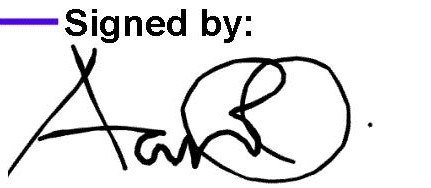
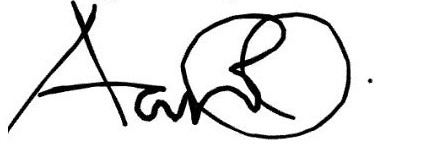
Improve invoice signature and appointment reminders

Changed region(s): [[0.0, 0.0, 0.8144, 1.0], [0.8445, 0.6389, 0.8747, 0.6944], [0.8445, 0.5278, 0.8747, 0.5833]]

diff --git a/server/index.ts b/server/index.ts
@@ -443,6 +443,8 @@ function queuePushNotification(
   });
 }
 
+const TWO_HOURS_MS = 2 * 60 * 60 * 1000;
+
 let bookingReminderSweepRunning = false;
 
 async function sendDueBookingReminders() {
@@ -464,10 +466,10 @@ async function sendDueBookingReminders() {
 
     for (const booking of reminderCandidates) {
       const displayId = formatBookingDisplayId(booking);
-      const reminderText = booking.reminderNote?.trim() || "Follow up with this customer request.";
+      const appointmentReminder = isTwoHourAppointmentReminder(booking);
       queuePushNotification({
-        title: `Reminder: ${booking.name}`,
-        message: `${displayId} - ${reminderText}`,
+        title: appointmentReminder ? `Job in 2 hours: ${booking.name}` : `Reminder: ${booking.name}`,
+        message: buildAdminReminderMessage(booking, displayId),
         url: "/admin",
         icon: "/icons/admin-icon-v2-192x192.png",
         badge: "/icons/admin-icon-v2-96x96.png",
@@ -592,6 +594,54 @@ function isReminderActive(booking: Pick<Booking, "reminderAt" | "status">) {
 function isReminderDue(booking: Pick<Booking, "reminderAt" | "status">, now = Date.now()) {
   const reminderTime = getBookingReminderTime(booking);
   return isReminderActive(booking) && Number.isFinite(reminderTime) && reminderTime <= now;
+}
+
+function getDateTimeMs(value?: string | null) {
+  const text = value?.trim();
+  if (!text) {
+    return Number.NaN;
+  }
+
+  const parsedTime = Date.parse(text);
+  return Number.isFinite(parsedTime) ? parsedTime : Number.NaN;
+}
+
+function getTwoHourAppointmentReminderAt(appointmentTime?: string | null) {
+  const appointmentMs = getDateTimeMs(appointmentTime);
+  if (!Number.isFinite(appointmentMs)) {
+    return "";
+  }
+
+  return new Date(Math.max(Date.now(), appointmentMs - TWO_HOURS_MS)).toISOString();
+}
+
+function isTwoHourAppointmentReminder(booking: Pick<Booking, "appointmentTime" | "reminderAt">) {
+  const appointmentMs = getDateTimeMs(booking.appointmentTime);
+  const reminderMs = getBookingReminderTime(booking);
+
+  return (
+    Number.isFinite(appointmentMs) &&
+    Number.isFinite(reminderMs) &&
+    Math.abs(reminderMs - (appointmentMs - TWO_HOURS_MS)) <= 90_000
+  );
+}
+
+function buildDefaultAppointmentReminderNote(booking: Pick<Booking, "repairType">) {
+  return `About 2 hours left to go and do the ${booking.repairType || "job"}. Check the customer details, route, tools, and parts before leaving.`;
+}
+
+function buildAdminReminderMessage(booking: Pick<Booking, "appointmentTime" | "reminderAt" | "reminderNote" | "repairType">, displayId: string) {
+  const reminderText = booking.reminderNote?.trim() || (
+    isTwoHourAppointmentReminder(booking)
+      ? buildDefaultAppointmentReminderNote(booking)
+      : "Follow up with this customer request."
+  );
+
+  if (isTwoHourAppointmentReminder(booking)) {
+    return `${displayId} - ${reminderText}${booking.appointmentTime ? ` Appointment: ${booking.appointmentTime}.` : ""}`;
+  }
+
+  return `${displayId} - ${reminderText}`;
 }
 
 function matchesWorkflowFilter(booking: Booking, workflow: string) {
@@ -1272,6 +1322,7 @@ function renderSitemapXml() {
 function renderQuoteInvoiceHtml(booking: Booking, nonce: string) {
   const lineItems = (booking.quoteNotes || "Labour, materials, sourcing, delivery, or installation details will be confirmed by FixMyDoor Services.").split(/\r?\n/).filter(Boolean);
   const bookingDisplayId = formatBookingDisplayId(booking);
+  const issuedDate = new Date().toLocaleDateString();
 
   return `<!doctype html>
 <html lang="en">
@@ -1293,13 +1344,19 @@ function renderQuoteInvoiceHtml(booking: Booking, nonce: string) {
     .total { margin: 20px 0; padding: 20px; border-radius: 18px; background: #2f241c; color: white; display: flex; justify-content: space-between; gap: 16px; align-items: center; }
     .total strong { font-size: 28px; }
     ul { margin: 12px 0 0; padding-left: 20px; line-height: 1.7; }
-    .signature-card { margin-top: 14px; display: flex; justify-content: space-between; gap: 20px; align-items: center; background: #fff; border: 1px solid #ead8bf; border-radius: 18px; padding: 16px; }
+    .signature-card { margin-top: 14px; display: flex; justify-content: space-between; gap: 22px; align-items: center; background: linear-gradient(135deg, #fff 0%, #fffaf2 58%, #f5ead8 100%); border: 1px solid #e2c6a6; border-radius: 20px; padding: 18px; box-shadow: inset 0 1px 0 rgba(255,255,255,.9); }
     .signature-card p { margin: 6px 0 0; color: #7b6758; font-size: 13px; line-height: 1.5; }
-    .signature-card img { width: 230px; max-width: 44%; height: auto; object-fit: contain; border-radius: 12px; background: #fff; }
+    .signature-card h3 { color: #2f241c; }
+    .signature-pill { display: inline-flex; align-items: center; border-radius: 999px; background: #2f241c; color: #fff; padding: 6px 10px; font-size: 11px; font-weight: 800; letter-spacing: .12em; text-transform: uppercase; }
+    .signature-mark { min-width: 260px; border-radius: 16px; background: rgba(255,255,255,.84); border: 1px solid #ead8bf; padding: 12px 14px; text-align: center; }
+    .signature-mark img { width: 250px; max-width: 100%; height: auto; object-fit: contain; display: block; margin: 0 auto 6px; }
+    .signature-line { height: 1px; background: #8f6a48; margin: 0 auto 8px; max-width: 230px; }
+    .signature-name { display: block; font-weight: 800; color: #2f241c; }
+    .signature-title { display: block; margin-top: 2px; color: #7b6758; font-size: 12px; }
     .actions { margin-top: 24px; display: flex; gap: 10px; }
     button { border: 0; border-radius: 12px; background: #b46532; color: white; padding: 12px 16px; font-weight: 800; cursor: pointer; }
     @media print { body { background: white; } .page { margin: 0; box-shadow: none; border: 0; } .signature-card { break-inside: avoid; } .actions { display: none; } }
-    @media (max-width: 640px) { header, .grid, .signature-card { grid-template-columns: 1fr; display: grid; } .signature-card img { width: 230px; max-width: 100%; } }
+    @media (max-width: 640px) { header, .grid, .signature-card { grid-template-columns: 1fr; display: grid; } .signature-mark { min-width: 0; } .signature-mark img { width: 230px; max-width: 100%; } }
   </style>
 </head>
 <body>
@@ -1312,7 +1369,7 @@ function renderQuoteInvoiceHtml(booking: Booking, nonce: string) {
       <div>
         <h1 style="color:white;">Quote / Invoice</h1>
         <p>Booking ID: ${escapeHtml(bookingDisplayId)}</p>
-        <p>Date: ${escapeHtml(new Date().toLocaleDateString())}</p>
+        <p>Date: ${escapeHtml(issuedDate)}</p>
       </div>
     </header>
     <main>
@@ -1336,11 +1393,17 @@ function renderQuoteInvoiceHtml(booking: Booking, nonce: string) {
       </div>
       <div class="signature-card">
         <div>
-          <div class="label">Authorized Approval</div>
-          <h3>Richard Ampofo</h3>
-          <p>Official FixMyDoor Services signature for quotes, invoices, and customer documents.</p>
+          <span class="signature-pill">Authorized Approval</span>
+          <h3 style="margin-top:10px;">Approved by FixMyDoor Services</h3>
+          <p>This quote/invoice is issued with the official signature of Richard Ampofo.</p>
+          <p><strong>Issued:</strong> ${escapeHtml(issuedDate)}</p>
         </div>
-        <img src="/fixmydoor-richard-ampofo-signature.jpg" alt="Official signature of Richard Ampofo for FixMyDoor Services" />
+        <div class="signature-mark">
+          <img src="/fixmydoor-richard-ampofo-signature.jpg" alt="Official signature of Richard Ampofo for FixMyDoor Services" />
+          <div class="signature-line"></div>
+          <span class="signature-name">Richard Ampofo</span>
+          <span class="signature-title">Owner / Authorized Signatory</span>
+        </div>
       </div>
       <div class="actions"><button id="print-quote" type="button">Print / Save PDF</button></div>
     </main>
@@ -2353,7 +2416,20 @@ async function startServer() {
         statusHistory: serializeStatusHistory(history),
       };
 
-      if ("appointmentTime" in update) updateData.appointmentTime = cleanOptionalText(update.appointmentTime, 160);
+      if ("appointmentTime" in update) {
+        const appointmentTime = cleanOptionalText(update.appointmentTime, 160);
+        updateData.appointmentTime = appointmentTime;
+
+        if (appointmentTime && !("reminderAt" in update) && !(existingBooking as any).reminderAt) {
+          const autoReminderAt = getTwoHourAppointmentReminderAt(appointmentTime);
+          if (autoReminderAt) {
+            updateData.reminderAt = autoReminderAt;
+            updateData.reminderWindow = "2 hours before appointment";
+            updateData.reminderNote = buildDefaultAppointmentReminderNote({ repairType: existingBooking.repairType });
+            updateData.reminderSentAt = null;
+          }
+        }
+      }
       if ("quoteAmount" in update) updateData.quoteAmount = cleanOptionalText(update.quoteAmount, 80);
       if ("quoteNotes" in update) updateData.quoteNotes = cleanOptionalText(update.quoteNotes, 1000);
       if ("invoiceStatus" in update) updateData.invoiceStatus = cleanOptionalText(update.invoiceStatus, 80);

diff --git a/client/src/pages/Admin.tsx b/client/src/pages/Admin.tsx
@@ -83,7 +83,7 @@ const quoteTemplateText = [
 
 const workflowExamples = [
   ["Appointment Date & Time", "Pick the visit time from the calendar, for example May 30, 2026 at 2:30 PM."],
-  ["Reminder", "Pick the follow-up time. The dashboard will alert admin at that time so the customer is not forgotten."],
+  ["Reminder", "When you pick an appointment, a 2-hour-before job reminder is added automatically. You can still change it if needed."],
   ["Quote Amount", "Use a clear amount such as C$250, or a range such as C$180-C$320 when the final parts are not confirmed."],
   ["Staff", "Write who will handle the job, for example Richard, Team A, or Supplier follow-up."],
   ["Invoice Status", "Use Quote sent after pricing is shared, Invoice sent when the final invoice is ready, and Revised if you update the price."],
@@ -94,11 +94,14 @@ const workflowExamples = [
 
 const reminderWindowOptions = [
   "At selected time",
+  "2 hours before appointment",
   "Within 15 minutes",
   "Within 30 minutes",
   "Within 1 hour",
   "Same day follow-up",
 ] as const;
+
+const TWO_HOURS_MS = 2 * 60 * 60 * 1000;
 
 type EmailRuntimeStatus = {
   configured: boolean;
@@ -229,6 +232,44 @@ function toIsoDateTimeInputValue(value: string) {
   return Number.isNaN(parsedDate.getTime()) ? "" : parsedDate.toISOString();
 }
 
+function getTwoHourReminderIsoFromInput(value: string) {
+  if (!value) {
+    return "";
+  }
+
+  const parsedDate = new Date(value);
+  if (Number.isNaN(parsedDate.getTime())) {
+    return "";
+  }
+
+  return new Date(Math.max(Date.now(), parsedDate.getTime() - TWO_HOURS_MS)).toISOString();
+}
+
+function getDefaultJobReminderNote(repairType?: string) {
+  return `About 2 hours left to go and do the ${repairType || "job"}. Check the customer details, route, tools, and parts before leaving.`;
+}
+
+function applyAppointmentToDraft(draft: BookingUpdateRequest, value: string, repairType?: string): BookingUpdateRequest {
+  const appointmentTime = formatDateTimeLocalInput(value);
+
+  if (!appointmentTime) {
+    return { ...draft, appointmentTime: "" };
+  }
+
+  if (draft.reminderAt) {
+    return { ...draft, appointmentTime };
+  }
+
+  const reminderAt = getTwoHourReminderIsoFromInput(value);
+  return {
+    ...draft,
+    appointmentTime,
+    reminderAt,
+    reminderWindow: reminderAt ? "2 hours before appointment" : draft.reminderWindow || "At selected time",
+    reminderNote: draft.reminderNote || getDefaultJobReminderNote(repairType),
+  };
+}
+
 function formatReminderDisplay(value?: string | null) {
   if (!value) {
     return "No reminder set";
@@ -255,6 +296,38 @@ function isReminderDueForAdmin(booking: Pick<Booking, "reminderAt" | "status">) 
 
   const reminderTime = new Date(booking.reminderAt).getTime();
   return Number.isFinite(reminderTime) && reminderTime <= Date.now();
+}
+
+function getBookingDateTimeMs(value?: string | null) {
+  const parsedDate = value ? new Date(value) : null;
+  const time = parsedDate?.getTime() ?? Number.NaN;
+  return Number.isFinite(time) ? time : Number.NaN;
+}
+
+function isJobWithinTwoHours(booking: Pick<Booking, "appointmentTime" | "status">) {
+  if (!booking.appointmentTime || ["COMPLETED", "CANCELLED"].includes(booking.status)) {
+    return false;
+  }
+
+  const appointmentTime = getBookingDateTimeMs(booking.appointmentTime);
+  const timeLeft = appointmentTime - Date.now();
+  return Number.isFinite(timeLeft) && timeLeft > 0 && timeLeft <= TWO_HOURS_MS;
+}
+
+function getReminderBadgeText(booking: Pick<Booking, "appointmentTime" | "reminderAt" | "status">) {
+  if (isJobWithinTwoHours(booking)) {
+    return "2 hours left";
+  }
+
+  return isReminderDueForAdmin(booking) ? "Due" : "Set";
+}
+
+function getReminderCardMessage(booking: Pick<Booking, "appointmentTime" | "reminderAt" | "reminderNote" | "repairType" | "status">) {
+  if (isJobWithinTwoHours(booking)) {
+    return getDefaultJobReminderNote(booking.repairType);
+  }
+
+  return booking.reminderNote || booking.repairType;
 }
 
 export default function Admin() {
@@ -1148,19 +1221,19 @@ export default function Admin() {
                     key={booking.id}
                     type="button"
                     onClick={() => applyQuickBookingFilter({ status: "ALL", workflow: "REMINDERS" })}
-                    className={`rounded-2xl border bg-white p-3 text-left shadow-sm ${isReminderDueForAdmin(booking) ? "border-rose-200" : "border-[#ead8bf]"}`}
+                    className={`rounded-2xl border bg-white p-3 text-left shadow-sm ${isJobWithinTwoHours(booking) || isReminderDueForAdmin(booking) ? "border-rose-200" : "border-[#ead8bf]"}`}
                   >
                     <div className="flex items-start justify-between gap-2">
                       <div className="min-w-0">
                         <p className="truncate text-sm font-black text-secondary">{booking.name}</p>
                         <p className="mt-0.5 text-[0.68rem] font-bold text-primary">{formatBookingDisplayId(booking)}</p>
                       </div>
-                      <Badge className={isReminderDueForAdmin(booking) ? "bg-rose-100 text-rose-800" : "bg-amber-100 text-amber-800"}>
-                        {isReminderDueForAdmin(booking) ? "Due" : "Set"}
+                      <Badge className={isJobWithinTwoHours(booking) || isReminderDueForAdmin(booking) ? "bg-rose-100 text-rose-800" : "bg-amber-100 text-amber-800"}>
+                        {getReminderBadgeText(booking)}
                       </Badge>
                     </div>
                     <p className="mt-2 text-xs font-semibold text-foreground/75">{formatReminderDisplay(booking.reminderAt)}</p>
-                    <p className="mt-1 line-clamp-2 text-xs leading-relaxed text-muted-foreground">{booking.reminderNote || booking.repairType}</p>
+                    <p className="mt-1 line-clamp-2 text-xs leading-relaxed text-muted-foreground">{getReminderCardMessage(booking)}</p>
                   </button>
                 ))}
               </div>
@@ -1723,7 +1796,7 @@ export default function Admin() {
                                     id={`appointment-${booking.id}`}
                                     type="datetime-local"
                                     value={toDateTimeLocalInputValue(bookingDraft.appointmentTime)}
-                                    onChange={(event) => setBookingDraft((draft) => ({ ...draft, appointmentTime: formatDateTimeLocalInput(event.target.value) }))}
+                                    onChange={(event) => setBookingDraft((draft) => applyAppointmentToDraft(draft, event.target.value, booking.repairType))}
                                     className="bg-white"
                                   />
                                 </div>
@@ -1760,7 +1833,7 @@ export default function Admin() {
                                     />
                                   </div>
                                   <p className="mt-2 text-[0.68rem] leading-relaxed text-muted-foreground">
-                                    Admin will receive an alert at this reminder time.
+                                    Admin will receive an alert at this time. Appointment reminders are set 2 hours before the job by default.
                                   </p>
                                 </div>
                                 <div className="grid grid-cols-2 gap-2">
@@ -2194,7 +2267,7 @@ export default function Admin() {
                                         <Input
                                           type="datetime-local"
                                           value={toDateTimeLocalInputValue(bookingDraft.appointmentTime)}
-                                          onChange={(event) => setBookingDraft((draft) => ({ ...draft, appointmentTime: formatDateTimeLocalInput(event.target.value) }))}
+                                          onChange={(event) => setBookingDraft((draft) => applyAppointmentToDraft(draft, event.target.value, selectedBooking.repairType))}
                                         />
                                       </div>
                                       <div className="sm:col-span-2 rounded-xl border border-rose-100 bg-[#fffaf2] p-3">
@@ -2207,7 +2280,7 @@ export default function Admin() {
                                           )}
                                         </div>
                                         <p className="mt-1 text-xs leading-relaxed text-muted-foreground">
-                                          Pick the exact follow-up time and a short note. Admin alerts will remind you so the customer is not forgotten.
+                                          Pick the exact follow-up time and a short note. When an appointment is selected, a 2-hour-before job reminder is prepared automatically.
                                         </p>
                                         <div className="mt-2 grid gap-2 sm:grid-cols-[1fr_0.8fr]">
                                           <Input
